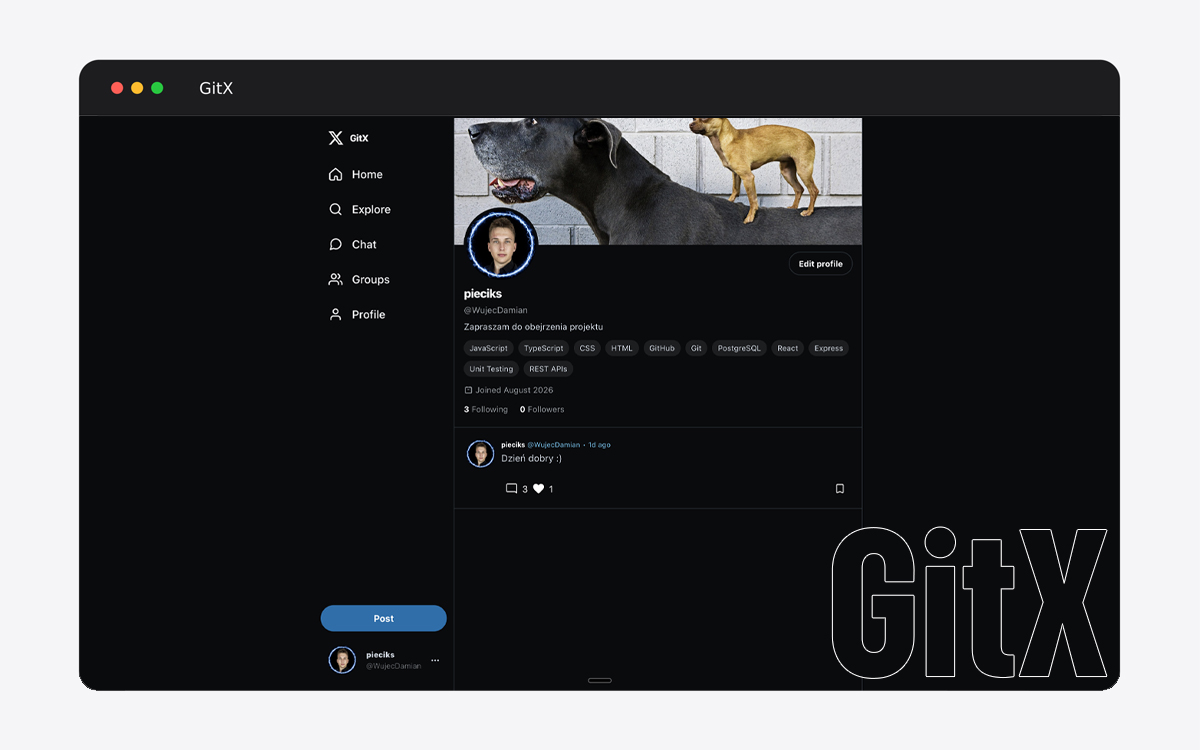
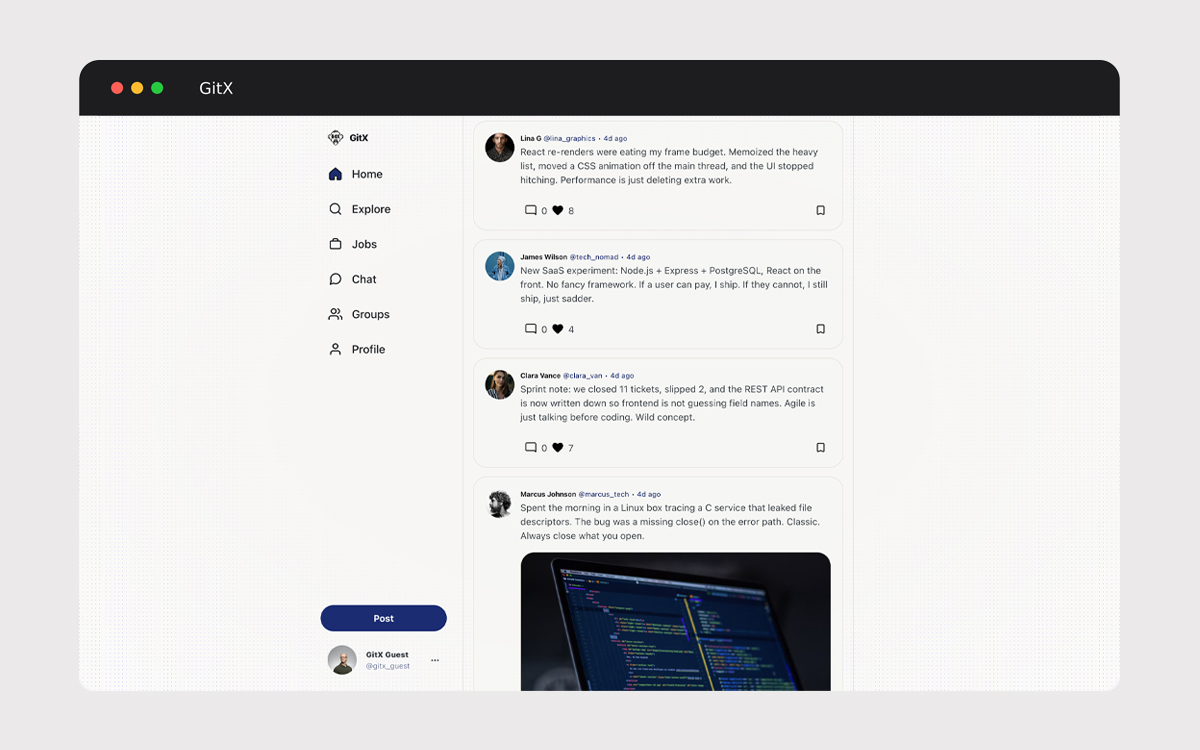
feat: refresh GitX screenshots, cover, and app tour gif

diff --git a/src/data/projectCopy.ts b/src/data/projectCopy.ts
@@ -12,27 +12,37 @@ export const getProjectCopy = (id: Project["id"], t: Translation) => {
       built: t.caseStudy.gitxBuilt,
       result: t.caseStudy.gitxResult,
       shots: [
-        { src: "/projects/gitx/home.jpg", caption: t.caseStudy.gitxShotHome },
         {
-          src: "/projects/gitx/explore.jpg",
+          src: "/projects/gitx/gif_800w_12fps-ezgif.com-optimize.gif",
+          caption: t.caseStudy.gitxShotGif,
+        },
+        {
+          src: "/projects/gitx/HomeScreen.jpg",
+          caption: t.caseStudy.gitxShotHome,
+        },
+        {
+          src: "/projects/gitx/ExploreScreen.jpg",
           caption: t.caseStudy.gitxShotExplore,
         },
-        { src: "/projects/gitx/chat.jpg", caption: t.caseStudy.gitxShotChat },
         {
-          src: "/projects/gitx/group-post.jpg",
-          caption: t.caseStudy.gitxShotGroupPost,
+          src: "/projects/gitx/GroupScreen.jpg",
+          caption: t.caseStudy.gitxShotGroup,
         },
         {
-          src: "/projects/gitx/group-chat.jpg",
-          caption: t.caseStudy.gitxShotGroupChat,
-        },
-        {
-          src: "/projects/gitx/profile.jpg",
+          src: "/projects/gitx/ProfileScreen.jpg",
           caption: t.caseStudy.gitxShotProfile,
         },
         {
-          src: "/projects/gitx/profile-edit.jpg",
+          src: "/projects/gitx/EditScreen.jpg",
           caption: t.caseStudy.gitxShotProfileEdit,
+        },
+        {
+          src: "/projects/gitx/RecruiterScreen.jpg",
+          caption: t.caseStudy.gitxShotRecruiter,
+        },
+        {
+          src: "/projects/gitx/CandidateScreen.jpg",
+          caption: t.caseStudy.gitxShotCandidate,
         },
       ],
     };

diff --git a/src/i18n/pl.ts b/src/i18n/pl.ts
@@ -177,14 +177,15 @@ export const pl: Translation = {
       "Stworzyłem interfejs użytkownika gry opartej na React'ie ('celownik', lista postaci, kilka poziomów) w oparciu o API Express z wykorzystaniem Prisma i PostgreSQL. Kliknięcia są normalizowane, dzięki czemu współrzędne są spójne niezależnie od rozmiaru ekranu; backend weryfikuje trafienia, mierzy czas gry oraz zapisuje nazwy graczy w tabeli wyników.",
     waldoResult:
       "Wybierz scenę, znajdź postacie i opublikuj swój czas. Wykorzystuje podobną implementację stacku PERN co GitX (interfejs użytkownika, API) oraz bazę danych, ale w innym rodzaju produktu. Dodatkowo wykorzystuję trochę kombinacji z JavaScriptem do oblicznia pozycji kliknięć na ekranie i wyliczaniu gdzie zostało procentowo kliknięte na zdjęciu.",
+    gitxShotGif: "Krótka wycieczka po aplikacji.",
     gitxShotHome: "Przeglądaj posty.",
     gitxShotExplore: "Wyszukaj ludzi.",
-    gitxShotChat: "Czatuj ze znajomymi z pracy. ",
-    gitxShotGroupPost: "Podziel się czymś z grupą.",
-    gitxShotGroupChat: "Zaplanuj coś z zespołem.",
+    gitxShotGroup: "Podziel się czymś z grupą.",
     gitxShotProfile: "Pochwal się profilem.",
     gitxShotProfileEdit:
       "Edytuj profil: informacje o sobie i linki do swoich stron.",
+    gitxShotRecruiter: "Przeglądaj kandydatów jako rekruter.",
+    gitxShotCandidate: "Ustaw, jak widzą cię rekruterzy.",
     waldoShotLevels:
       "Wybór poziomu: plaża, stok narciarski, sklep z zabawkami i nurkowie głębinowi.",
     waldoShotPlay:

diff --git a/src/i18n/en.ts b/src/i18n/en.ts
@@ -176,14 +176,15 @@ export const en = {
       "I built a React game UI (targeting box, character list, several levels) on an Express API with Prisma and PostgreSQL. Clicks are normalized so coordinates match across screen sizes; the backend validates hits, times the run, and stores names on a leaderboard.",
     waldoResult:
       "Pick a scene, find the characters, and post your time. It shows similar PERN implementation as GitX (UI, API), and database on a different kind of product.",
+    gitxShotGif: "A short tour of the app.",
     gitxShotHome: "Read posts.",
     gitxShotExplore: "Search people.",
-    gitxShotChat: "Chat with colleagues.",
-    gitxShotGroupPost: "Share something with your group.",
-    gitxShotGroupChat: "Plan something with your team.",
+    gitxShotGroup: "Share something with your group.",
     gitxShotProfile: "Show off your profile.",
     gitxShotProfileEdit:
       "Tweak your profile to give information about yourself and link your websites.",
+    gitxShotRecruiter: "Browse candidates as a recruiter.",
+    gitxShotCandidate: "Set how recruiters see you.",
     waldoShotLevels:
       "Level picker: Beach, Ski slopes, Toy Store, and Deep-Sea Divers.",
     waldoShotPlay:
